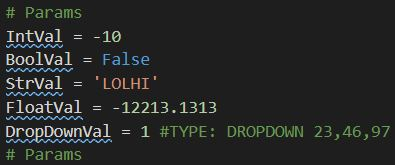
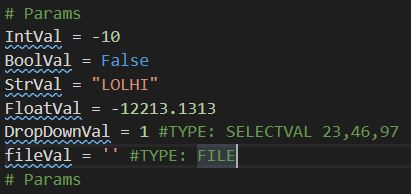
updated images

Changed region(s): [[0.0, 0.1515, 1.0, 0.9697], [0.0, 0.0303, 0.2127, 0.1212], [0.7899, 0.6364, 0.9722, 0.7273]]

diff --git a/TestCodes/Test.py b/TestCodes/Test.py
@@ -31,6 +31,7 @@ BoolVal = False
 StrVal = "LOLHI"
 FloatVal = -12213.1313
 DropDownVal = 1 #TYPE: SELECTVAL 23,46,97
+fileVal = '' #TYPE: FILE
 # Params
 print("Inputs:")
 print("IntVal:", IntVal)
@@ -49,7 +50,3 @@ print("DIFF:", IntDiff)
 print("MULT", FloatMult)
 print("AND", BoolAND)
 print("DROPDOWN POWER:", DropdownPOWER)
-
-# Params
-fileVal = '' #TYPE: FILE
-# Params
